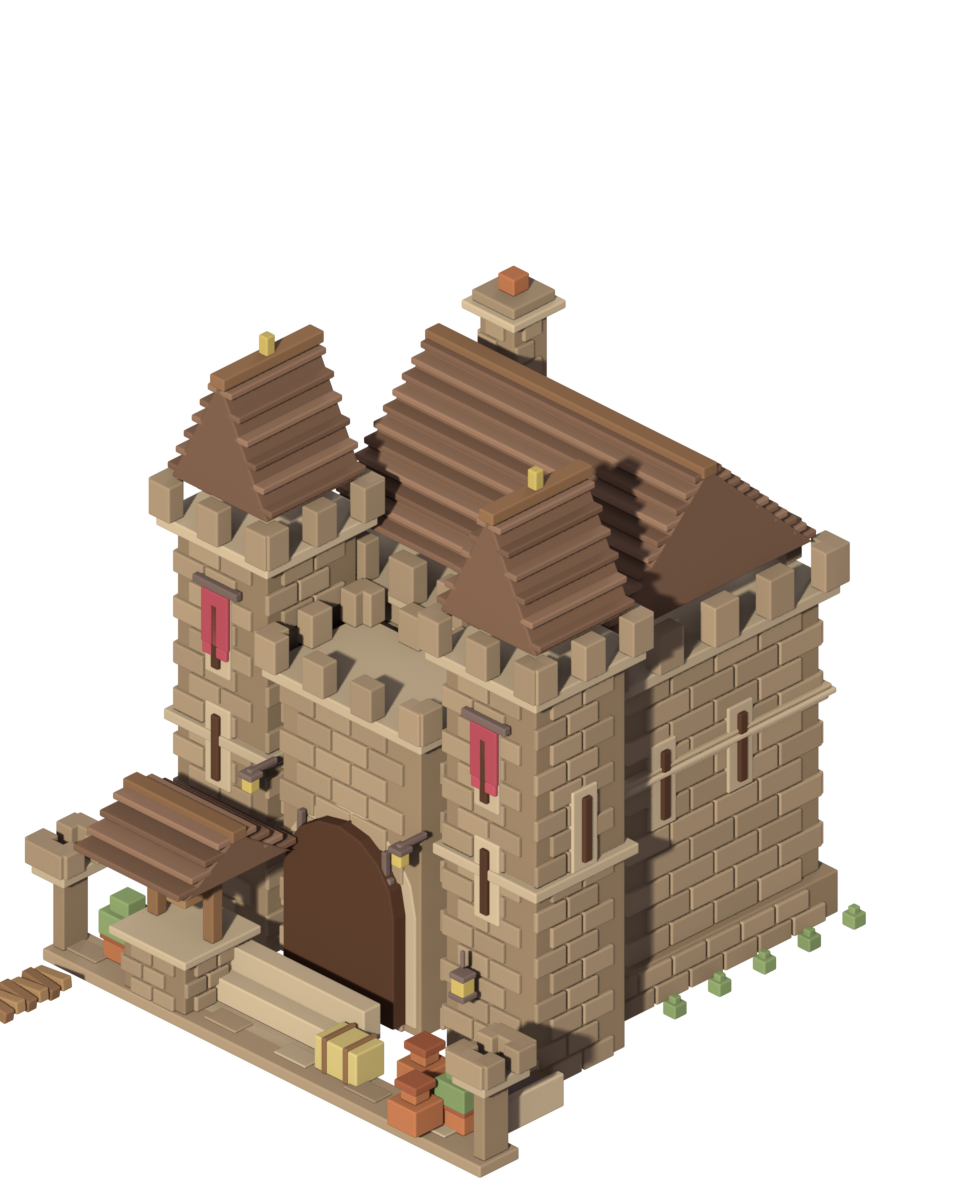
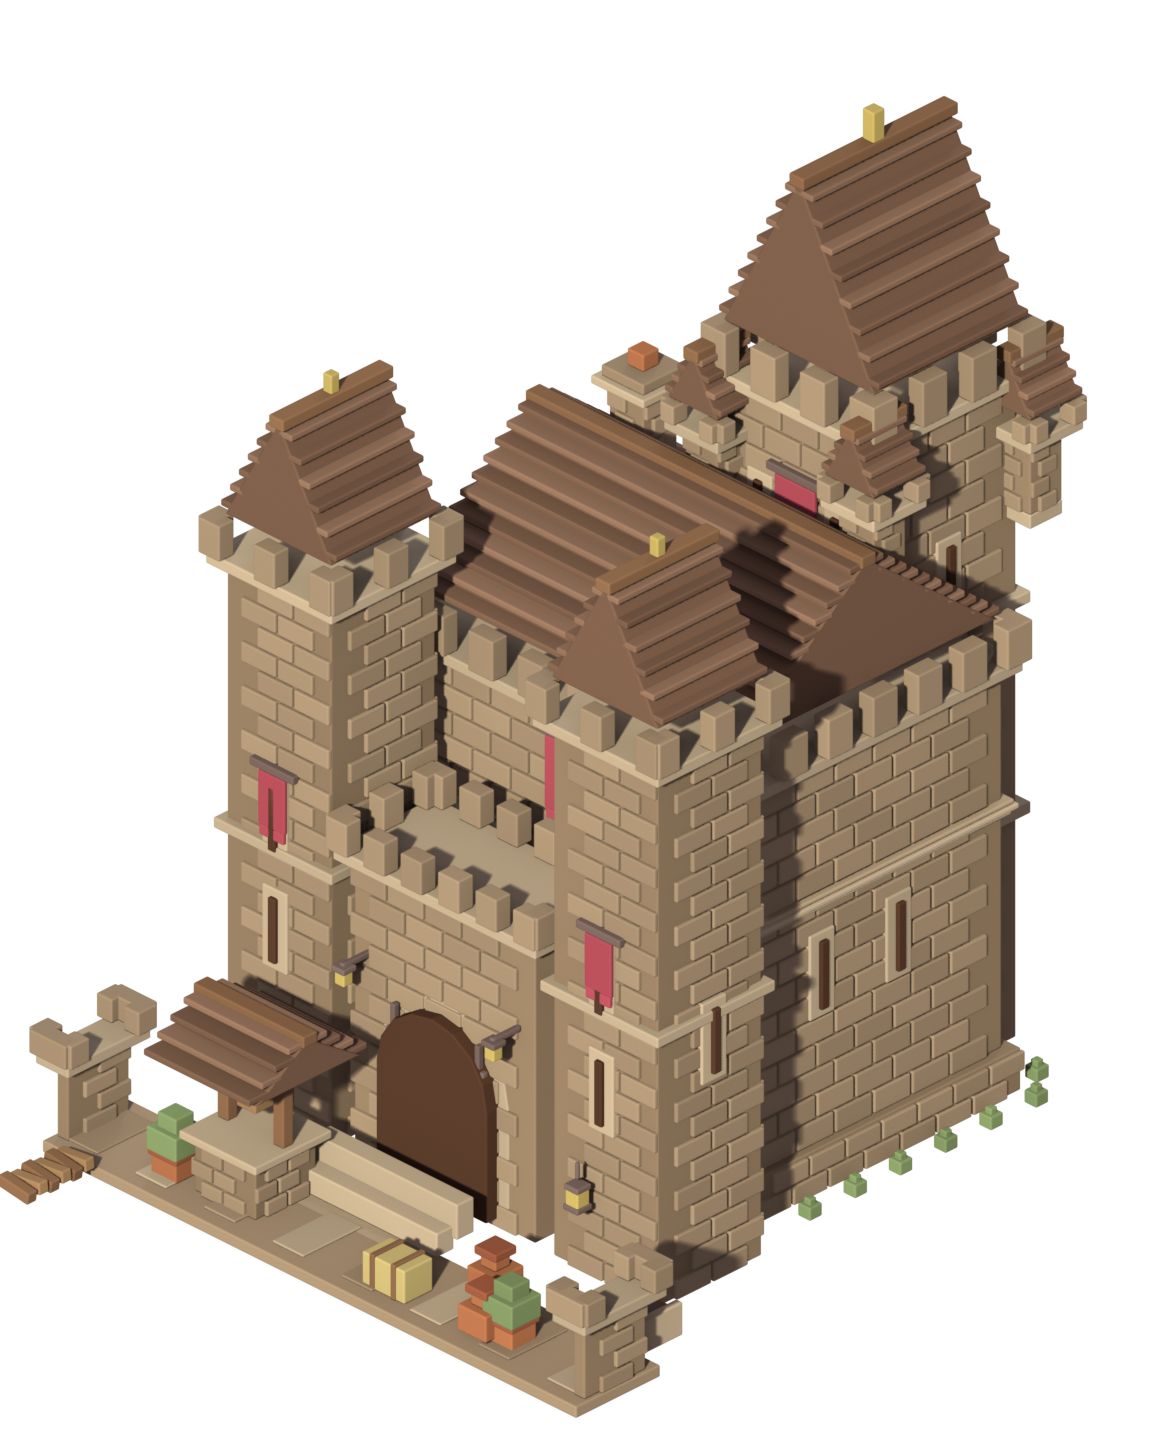
The Keep, grander: 6x6, a donjon, and turrets on its corners
Bigger, and the extra tile goes into HEIGHT rather than width. A castle that
spreads reads as a compound; one that rises reads as a stronghold. The keep
wall alone is now taller than the whole Hatchery, which is the comparison that
does the work once both are on the map.

The donjon is what makes it read as a SEAT rather than as a fortification. A
matched pair of towers is a gate; one tower plainly the master of the others is
a residence with power in it. It stands BEHIND the keep on purpose -- height
measured against a roof you can read is what feels high, where a tall thing
standing alone just looks near.

Bartizans on its four corners are four small shapes doing more than their size:
they break the vertical line exactly where it runs longest, which is most of
the difference between a tall box and a castle.

Footprint re-verified with --guides at 6x6.

diff --git a/tool/blender/render_building.py b/tool/blender/render_building.py
@@ -1729,9 +1729,14 @@ def main_hall(w, h):
     half = w / 2.0
 
     # ── The keep ──
-    kx, ky = -0.2, 1.15
-    kw, kd = 3.0, 2.3
-    wall_h = 2.35
+    # ── BIGGER AND GRANDER (user 2026-08-04) ──
+    # 6 x 6 rather than 5 x 5, and the extra tile goes into HEIGHT more than
+    # width: a castle that spreads reads as a compound, one that rises reads as
+    # a stronghold. The keep's wall alone is now taller than the whole
+    # Hatchery, which is the comparison that does the work on the map.
+    kx, ky = -0.2, 1.5
+    kw, kd = 3.6, 2.8
+    wall_h = 3.2
     ashlar_courses('kbase', kx, ky, 0, kw + 0.2, kd + 0.2, 0.36,
                    course=0.18, block=0.36)
     ashlar_courses('kwall', kx, ky, 0.36, kw, kd, wall_h,
@@ -1761,8 +1766,8 @@ def main_hall(w, h):
     banner('kflag', kx, face_y - 0.02, 0.36 + wall_h - 0.18, 0.36, 0.62)
 
     # ── The two towers, and the gate between them ──
-    tw, tower_h = 1.0, 3.3
-    gate_y = face_y - 0.72
+    tw, tower_h = 1.15, 4.5
+    gate_y = face_y - 0.85
     for s in (-1, 1):
         tx = kx + s * (kw / 2 - 0.1)
         ty = gate_y + 0.1
@@ -1843,6 +1848,45 @@ def main_hall(w, h):
                  0.32, 0.1, 0.1, mat('oak' if i % 2 else 'oak_light'))
         ob.rotation_euler = (0, math.radians(8 if i % 2 else -6), 0)
 
+    # ── The donjon: the tallest thing on the map ──
+    # A pair of matched towers is a gate. What makes a castle read as a SEAT
+    # rather than as a fortification is one tower that is plainly the master of
+    # the others — so this one is taller, wider, and set BEHIND the keep, where
+    # its height is the only part of it you see over the roof. Height read
+    # against a roof you can measure is what makes it feel high; a tall thing
+    # standing alone just looks close.
+    dx_, dy_ = kx + 0.55, ky + kd / 2 - 0.15
+    dw, don_h = 1.55, 5.6
+    ashlar_courses('don', dx_, dy_, 0, dw, dw, don_h, course=0.22, block=0.4)
+    for f in (0.34, 0.66):
+        box(f'donband{f}', dx_, dy_, don_h * f, dw + 0.09, dw + 0.09, 0.1,
+            mat('travertine'))
+    battlements('doncrown', dx_, dy_, don_h, dw, dw, h=0.38, merlon=0.26,
+                gap=0.2)
+    # Bartizans — the little turrets corbelled off the corners. Four small
+    # shapes, and they are most of the difference between a tall box and a
+    # castle: they break the vertical line exactly where it is longest.
+    for sx_ in (-1, 1):
+        for sy_ in (-1, 1):
+            bx = dx_ + sx_ * (dw / 2 + 0.04)
+            by = dy_ + sy_ * (dw / 2 + 0.04)
+            box(f'bart{sx_}{sy_}', bx, by, don_h - 1.15, 0.34, 0.34, 0.12,
+                mat('travertine'))
+            ashlar_courses(f'bartb{sx_}{sy_}', bx, by, don_h - 1.03, 0.4, 0.4,
+                           0.6, course=0.15, block=0.24)
+            battlements(f'bartc{sx_}{sy_}', bx, by, don_h - 0.43, 0.4, 0.4,
+                        h=0.16, merlon=0.14, gap=0.11)
+            shingle_gable(f'bartr{sx_}{sy_}', bx, by, don_h - 0.15, 0.32, 0.32,
+                          0.46, overhang=0.1, rows=4, ridge_along='y')
+    shingle_gable('donroof', dx_, dy_, don_h + 0.5, dw * 0.78, dw * 0.78, 1.5,
+                  overhang=0.18, rows=8, ridge_along='y')
+    box('donfin', dx_, dy_, don_h + 2.0, 0.12, 0.12, 0.3, mat('gold'))
+    for s in (-1, 1):
+        arrow_slit(f'dons{s}', dx_ + s * 0.4, dy_ - dw / 2, don_h - 2.2, 0.6)
+        arrow_slit(f'donsu{s}', dx_ + s * 0.4, dy_ - dw / 2, don_h - 1.3, 0.6)
+    arrow_slit('donsx', dx_ + dw / 2, dy_, don_h - 1.7, 0.6, facing='x')
+    banner('donflag', dx_, dy_ - dw / 2 - 0.02, don_h - 0.55, 0.42, 0.72)
+
     vine('kvine', kx - kw / 2 - 0.01, ky + 0.3, 0.36, 1.1, facing='x')
     tufts('kgrass', kx, ky, kw + 0.5, kd + 0.5)
 
@@ -1850,7 +1894,7 @@ def main_hall(w, h):
 # want them. Anything that has no caller AND no plausible one should go.
 PRESETS = {
     'breeding_hut': (breeding_hut, 4, 4),
-    'main_hall': (main_hall, 5, 5),
+    'main_hall': (main_hall, 6, 6),
 }
 
 
